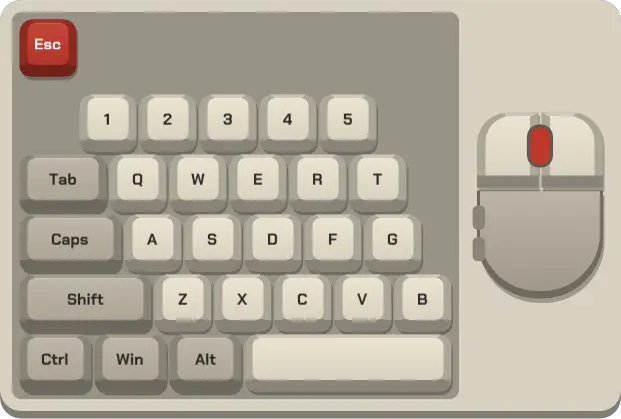
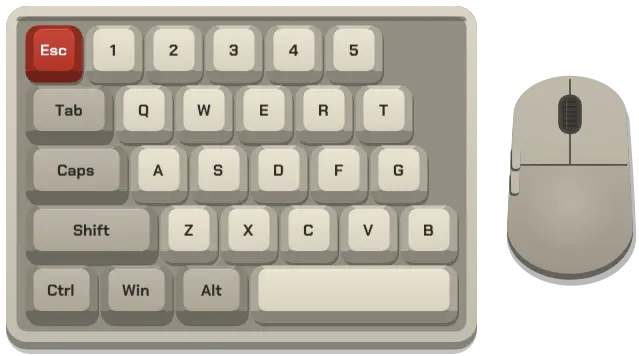
New overlay pictures

diff --git a/index.html b/index.html
@@ -216,11 +216,11 @@ footer p { max-width: 70em; }
 <section id="overlay">
   <div class="wrap split flip">
     <div>
-      <img src="img/overlay.webp" width="621" height="419" loading="lazy" alt="The ZeroClick overlay: a dark 3D keyboard showing Esc, number keys, WASD rows and Space, next to a mouse.">
+      <img src="img/overlay.webp" width="639" height="356" loading="lazy" alt="The ZeroClick overlay: a dark 3D keyboard with Esc, number keys, the WASD rows and Space, next to a mouse.">
       <div class="ways">
-        <figure><img src="img/overlay-retro.webp" width="621" height="419" loading="lazy" alt="Overlay in the Retro keycap set: beige keys with a red Esc."><figcaption>Retro, SA profile</figcaption></figure>
-        <figure><img src="img/overlay-arctic.webp" width="621" height="419" loading="lazy" alt="Overlay in the Arctic keycap set: white keys with a blue Esc."><figcaption>Arctic, XDA profile</figcaption></figure>
-        <figure><img src="img/overlay.webp" width="621" height="419" loading="lazy" alt="Overlay in the Midnight keycap set."><figcaption>Midnight, Cherry profile</figcaption></figure>
+        <figure><img src="img/overlay-retro.webp" width="639" height="356" loading="lazy" alt="Overlay in the Retro keycap set: beige keys with a red Esc."><figcaption>Retro, SA profile</figcaption></figure>
+        <figure><img src="img/overlay-arctic.webp" width="639" height="356" loading="lazy" alt="Overlay in the Arctic keycap set: white keys with a blue Esc."><figcaption>Arctic, XDA profile</figcaption></figure>
+        <figure><img src="img/overlay.webp" width="639" height="356" loading="lazy" alt="Overlay in the Midnight keycap set."><figcaption>Midnight, Cherry profile</figcaption></figure>
       </div>
     </div>
     <div class="copy">
